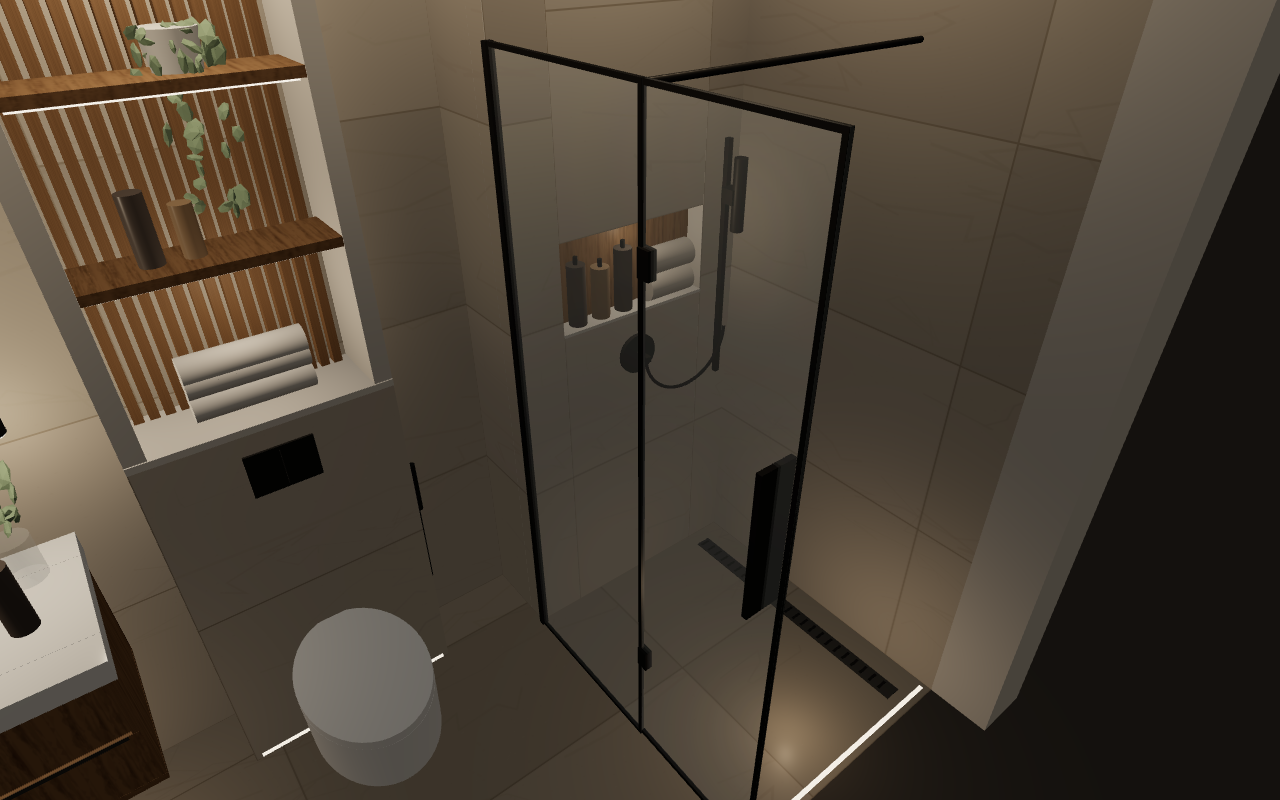
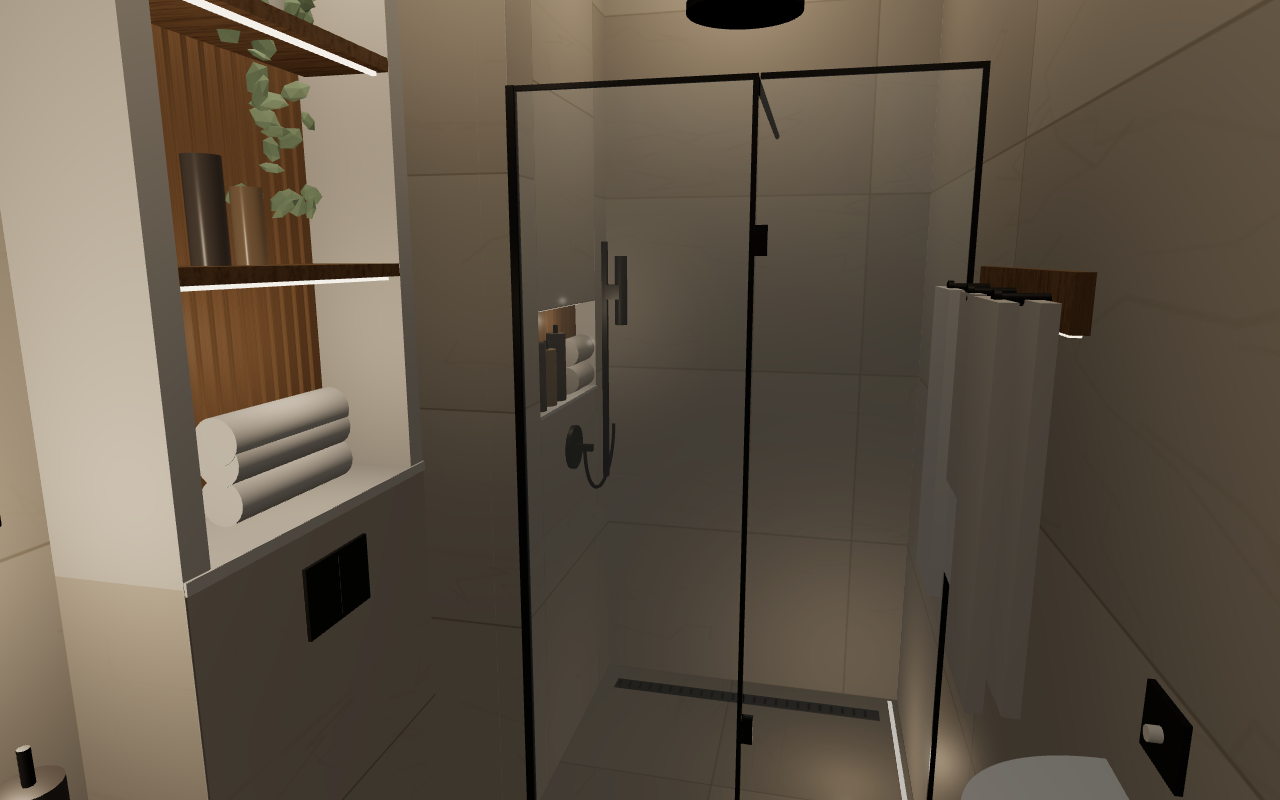
Баня: висок шкаф с 3 чекмеджета под мивката, стояща тоалетна, нови рендери
Claude-Session: https://claude.ai/code/session_01WsXm7UUS5FGuNnN1zhgEBr

diff --git a/interior/banya/model.html b/interior/banya/model.html
@@ -43,7 +43,7 @@ button:focus-visible{outline:2px solid var(--focus);outline-offset:2px}
 <div id="stage" aria-label="3D визуализация на основната баня"></div>
 <div class="card">
   <h1>Основна баня</h1>
-  <p>Мивка, вградена в шкаф с две чекмеджета, голямо огледало, конзолна тоалетна с ниши над нея, малък писуар, душ кабина със стъклена врата, ниша и смесител на стената на комина, закачалки за хавлии. LED по тавана и по пода. 301 × 139 см, таван 270 см.</p>
+  <p>Мивка, вградена във висок шкаф с три чекмеджета, голямо огледало, стояща тоалетна (плътно до стената) с ниши над нея, малък писуар, душ кабина със стъклена врата, ниша и смесител на стената на комина, закачалки за хавлии. LED по тавана и по пода. 301 × 139 см, таван 270 см.</p>
   <p class="tap">Натисни вратата, вратата на душа, чекмеджетата или огледалото.</p>
 </div>
 <div class="hint" id="hint">Влачи за завъртане, скрол или щипване за приближаване</div>
@@ -59,6 +59,7 @@ button:focus-visible{outline:2px solid var(--focus);outline-offset:2px}
     <button type="button" data-view="overview" aria-pressed="true">Общ изглед</button>
     <button type="button" data-view="entry" aria-pressed="false">От входа</button>
     <button type="button" data-view="sink" aria-pressed="false">Мивка</button>
+    <button type="button" data-view="toilet" aria-pressed="false">Тоалетна</button>
     <button type="button" data-view="shower" aria-pressed="false">Душ</button>
     <button type="button" data-view="top" aria-pressed="false">Отгоре</button>
     <button type="button" data-view="walk" aria-pressed="false">Разходка</button>
@@ -248,6 +249,7 @@ button:focus-visible{outline:2px solid var(--focus);outline-offset:2px}
 
   // ---------- Interactions ----------
   var inter=[],MOODS=null;
+  window._inter=inter;
   function makeInter(obj,label,apply,start){
     obj.userData.inter={t:start||0,target:start||0,label:label,apply:apply};inter.push(obj);apply(obj,start||0);
   }
@@ -263,10 +265,10 @@ button:focus-visible{outline:2px solid var(--focus);outline-offset:2px}
   // Wood slat cladding on the west wall behind the vanity
   for(var s=0;s<15;s++){var sz=0.01+s*0.04;box(0,0.025,0,H,sz,sz+0.028,M.oak);}
 
-  // ---------- Vanity: floating oak cabinet with two drawers ----------
+  // ---------- Vanity: tall floating oak cabinet with three drawers ----------
   var vx1=0.05,vx2=0.95,vz=0.5;
-  box(vx1,vx1+0.02,0.45,0.84,0,vz,M.oak);box(vx2-0.02,vx2,0.45,0.84,0,vz,M.oak);
-  box(vx1,vx2,0.45,0.47,0,vz,M.oak);box(vx1,vx2,0.47,0.84,0,0.02,M.oakDark);
+  box(vx1,vx1+0.02,0.2,0.84,0,vz,M.oak);box(vx2-0.02,vx2,0.2,0.84,0,vz,M.oak);
+  box(vx1,vx2,0.2,0.22,0,vz,M.oak);box(vx1,vx2,0.22,0.84,0,0.02,M.oakDark);
   // ceramic top with a built-in rectangular bowl
   var bx1=0.28,bx2=0.72,bz1=0.11,bz2=0.42,ty1=0.84,ty2=0.9,by=0.78;
   box(vx1-0.01,vx2+0.01,ty1,ty2,0,bz1,M.ceramic);box(vx1-0.01,vx2+0.01,ty1,ty2,bz2,vz+0.02,M.ceramic);
@@ -275,8 +277,8 @@ button:focus-visible{outline:2px solid var(--focus);outline-offset:2px}
   box(bx1,bx1+0.012,by,ty1,bz1,bz2,M.ceramic,{cast:false});box(bx2-0.012,bx2,by,ty1,bz1,bz2,M.ceramic,{cast:false});
   box(bx1,bx2,by,ty1,bz1,bz1+0.012,M.ceramic,{cast:false});box(bx1,bx2,by,ty1,bz2-0.012,bz2,M.ceramic,{cast:false});
   cyl(0.5,0.3,0.02,by+0.012,by+0.016,M.black,16);
-  box(vx1+0.05,vx2-0.05,0.442,0.448,vz-0.12,vz-0.1,LED.low,{cast:false,noHit:true});
-  pl(0.5,0.25,0.42,'#ffc488',{full:0.15,eve:0.35,night:0.35},1.1);
+  box(vx1+0.05,vx2-0.05,0.192,0.198,vz-0.12,vz-0.1,LED.low,{cast:false,noHit:true});
+  pl(0.5,0.12,0.42,'#ffc488',{full:0.15,eve:0.35,night:0.35},1.1);
   function drawer(y1,y2,label,items,boxTop){
     var bt=boxTop||(y2-0.03);
     var g=new THREE.Group();scene.add(g);
@@ -289,12 +291,16 @@ button:focus-visible{outline:2px solid var(--focus);outline-offset:2px}
     items(g,y1+0.022);
     makeInter(g,label,function(o,k){o.position.z=0.36*k;o.userData.inter.label=(k>0.5?'Затвори ':'Отвори ')+label;});
   }
-  drawer(0.655,0.835,'горното чекмедже',function(g,y){
+  drawer(0.665,0.835,'горното чекмедже',function(g,y){
     [[0.2,M.bottle,0.08],[0.3,M.amber,0.07],[0.4,M.pot,0.06]].forEach(function(o){cyl(o[0],0.22,0.028,y,y+o[2],o[1],16,null,g);});
     box(0.55,0.85,y,y+0.03,0.12,0.3,M.towel2,{parent:g});box(0.55,0.75,y,y+0.04,0.33,0.42,M.pot,{parent:g});
   },0.765);
-  drawer(0.465,0.645,'долното чекмедже',function(g,y){
+  drawer(0.445,0.655,'средното чекмедже',function(g,y){
     for(var i=0;i<5;i++){var tw=new THREE.Mesh(new THREE.CylinderGeometry(0.05,0.05,0.34,20),i%2?M.towel:M.towel2);tw.rotation.x=Math.PI/2;tw.position.set(0.16+i*0.13,y+0.05,0.27);tw.castShadow=true;g.add(tw);}
+  });
+  drawer(0.225,0.435,'долното чекмедже',function(g,y){
+    [[0.17,M.bottle,0.16],[0.27,M.amber,0.14],[0.37,M.bottle,0.17]].forEach(function(o){cyl(o[0],0.2,0.035,y,y+o[2],o[1],16,null,g);});
+    box(0.5,0.85,y,y+0.12,0.12,0.42,M.pot,{parent:g});box(0.52,0.83,y+0.12,y+0.15,0.14,0.4,M.towel2,{parent:g});
   });
 
   // deck-mounted black mixer behind the bowl
@@ -354,8 +360,9 @@ button:focus-visible{outline:2px solid var(--focus);outline-offset:2px}
   // flush plate, base LED
   box(1.36,1.54,0.95,1.08,pz,pz+0.008,M.black);box(1.449,1.451,0.96,1.07,pz+0.008,pz+0.009,M.matteBlack,{cast:false});
   box(px1+0.02,px2-0.02,0.012,0.022,pz+0.001,pz+0.008,LED.low,{cast:false,noHit:true});
-  // wall-hung toilet
-  var bowl=cyl(1.45,0.47,0.175,0.22,0.4,M.ceramic,48,0.18);bowl.scale.z=1.42;
+  // floor-standing back-to-wall toilet (ceramic body down to the floor, flush to the pier)
+  var bowl=cyl(1.45,0.47,0.15,0,0.4,M.ceramic,48,0.18);bowl.scale.z=1.42;
+  box(1.3,1.6,0,0.4,pz,0.47,M.ceramic);
   var seat=cyl(1.45,0.47,0.18,0.4,0.43,M.ceramic,48,0.18);seat.scale.z=1.42;
   // bidet hand shower on the pier side
   box(px2,px2+0.02,0.7,0.76,0.1,0.14,M.black);cyl(px2+0.035,0.12,0.012,0.6,0.78,M.black,12);cyl(px2+0.03,0.12,0.006,0.3,0.6,M.black,8);
@@ -439,7 +446,8 @@ button:focus-visible{outline:2px solid var(--focus);outline-offset:2px}
   var views={
     overview:{pos:[W/2+1.3,3.5,D+2.6],tgt:[W/2,0.8,D/2]},
     entry:{pos:[0.3,1.6,1.05],tgt:[2.9,1.1,0.45]},
-    sink:{pos:[1.0,1.6,1.25],tgt:[0.45,1.15,0.0]},
+    sink:{pos:[1.3,1.45,1.02],tgt:[0.42,0.7,0.12]},
+    toilet:{pos:[0.75,1.5,1.05],tgt:[1.5,0.45,0.3]},
     shower:{pos:[1.65,1.6,1.25],tgt:[2.6,1.15,0.3]},
     top:{pos:[W/2,6.0,D/2+0.01],tgt:[W/2,0,D/2]}
   };

diff --git a/interior/banya/index.html b/interior/banya/index.html
@@ -10,7 +10,7 @@ a{color:#8e3b22}ul{margin:0;padding-left:18px;line-height:1.9}.g{display:grid;gr
 .rooms{display:grid;grid-template-columns:repeat(auto-fill,minmax(220px,1fr));gap:12px}.room{display:block;background:#fff;border:1px solid #d8d5cd;border-radius:10px;overflow:hidden;color:inherit;text-decoration:none}
 .room img{width:100%;aspect-ratio:16/10;object-fit:cover;display:block}.room div{padding:10px 12px}.room b{display:block;font-size:16px}.room span{font-size:13px;color:#5d5a54}</style></head>
 <body><main><div class="k"><a href="../">← АПАРТАМЕНТ</a> · ИНТЕРИОР</div><h1>Основна баня</h1><p class="m">301 × 139 см · ≈ 3,92 м² (без комина 88 × 30) · вход 77 см</p>
-<section><h2>Интерактивен 3D модел</h2><ul><li><a href="model.html">3D модел</a> (изгледи: от входа, мивка, душ, отгоре, разходка; осветление ярко/вечер/нощ)</li></ul></section>
+<section><h2>Интерактивен 3D модел</h2><ul><li><a href="model.html">3D модел</a> (изгледи: от входа, мивка, тоалетна, душ, отгоре, разходка; осветление ярко/вечер/нощ)</li></ul><p class="m">Шкаф под мивката: висок 64 см, с 3 чекмеджета (дъб). Тоалетна: стояща, плътно до стената.</p></section>
 <section><h2>2D план</h2><ul><li><a href="plan.pdf">PDF</a> · <a href="plan.png">PNG</a></li></ul><div class="g">
 <a href="plan.png"><img src="plan.png" alt="План"></a>
 </div></section>
@@ -18,6 +18,8 @@ a{color:#8e3b22}ul{margin:0;padding-left:18px;line-height:1.9}.g{display:grid;gr
 <a href="renders/0-obsht-izgled.png"><img src="renders/0-obsht-izgled.png" alt="Общ изглед"></a>
 <a href="renders/1-ot-vhoda.png"><img src="renders/1-ot-vhoda.png" alt="От входа"></a>
 <a href="renders/2-mivka.png"><img src="renders/2-mivka.png" alt="Мивка"></a>
+<a href="renders/2b-mivka-chekmedzheta-otvoreni.png"><img src="renders/2b-mivka-chekmedzheta-otvoreni.png" alt="Мивка, отворени чекмеджета"></a>
+<a href="renders/4-toaletna.png"><img src="renders/4-toaletna.png" alt="Тоалетна"></a>
 <a href="renders/3-dush.png"><img src="renders/3-dush.png" alt="Душ"></a>
 
 </div></section>
